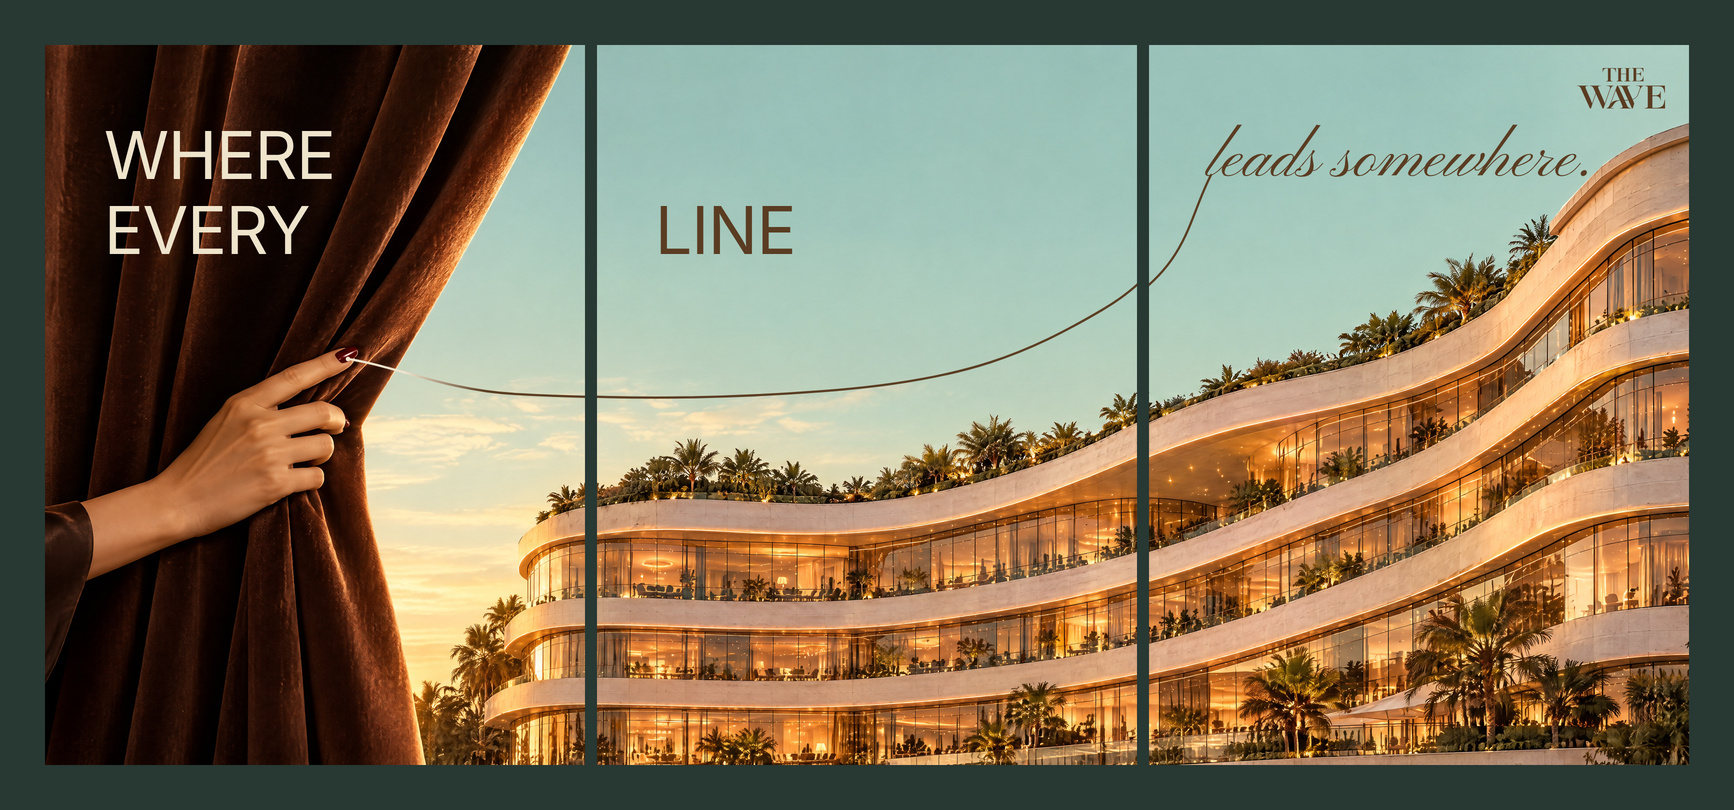
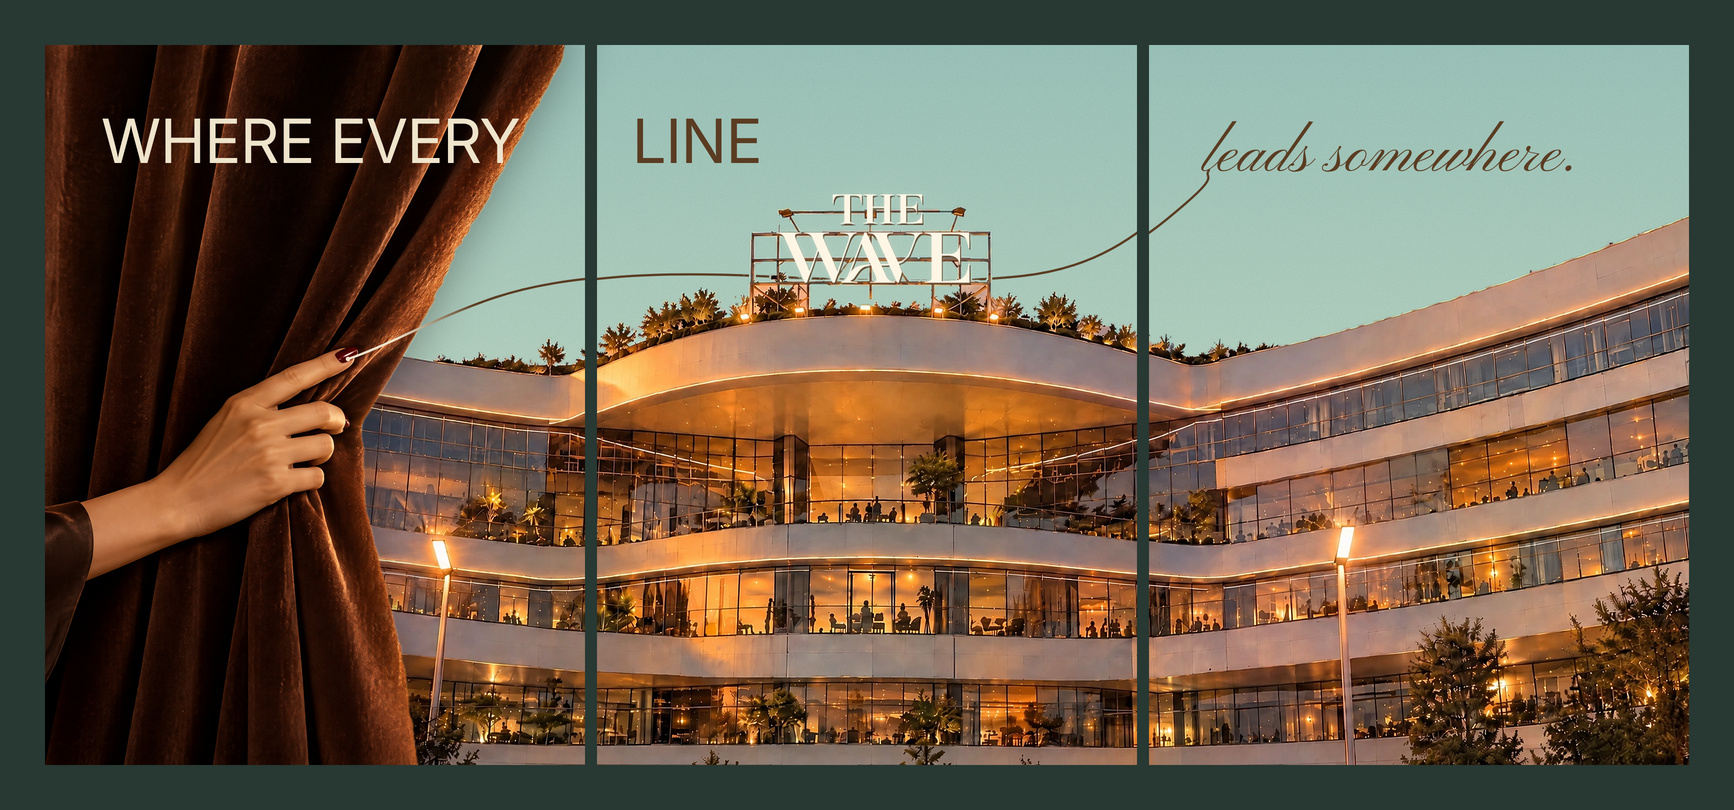
Instagram opening panorama: the real Wave facade and rooftop sign
Claude-Session: https://claude.ai/code/session_0142AMHowNKcEFnnjpkxJwpv

diff --git a/instagram/grid-v4/GRID-GUIDE.md b/instagram/grid-v4/GRID-GUIDE.md
@@ -2,8 +2,8 @@
 
 The feed opens with one picture split across three posts, "Where every line leads somewhere."
 
-- A hand draws back the velvet curtain and reveals The Wave at golden hour.
-- One fine line starts at her fingertip, runs above the roofline across all three posts, and turns into the handwritten *leads somewhere.*
+- A hand draws back the velvet curtain and reveals the real Wave at golden hour: the building and the rooftop THE WAVE sign are from our photograph of the mall, with the sky set to the brand mint.
+- One fine line starts at her fingertip, passes behind the rooftop sign, rises along the right wing, and turns into the handwritten *leads somewhere.*
 
 Above the panorama sit the nine single posts, as a 3×3 grid.
 
@@ -24,9 +24,9 @@ Above the panorama sit the nine single posts, as a 3×3 grid.
 
 ## Text on each post
 
-1. **post-01 · right:** *leads somewhere.* (script) · THE WAVE wordmark at the top right
-2. **post-02 · middle:** LINE
-3. **post-03 · left:** WHERE / EVERY
+1. **post-01 · right:** *leads somewhere.* (script)
+2. **post-02 · middle:** LINE, beside the real rooftop sign
+3. **post-03 · left:** WHERE EVERY
 4. **post-04 · the light is on:** THE LIGHT / IS ON, / *every evening.* · NORTH 90 · NEW CAIRO
 5. **The woman:** no text
 6. **Bags:** EVERYTHING YOU NEED, / *and more.* · THE WAVE
@@ -68,4 +68,4 @@ Hashtags on every post: `#TheWave #TheWaveMall #NewCairo #North90`
 - `posting-order.png`: the profile numbered in posting order
 - `the-wave-grid-hero.jpg`: the campaign image
 
-The scenes were made with Higgsfield. The panorama used two of our building photos as references, and all lettering, the line and the logo were set by hand afterwards, so the type is exact. The follower numbers on the profile are placeholders.
+The panorama is our real golden-hour photograph of The Wave (sky changed to mint, rooftop wordmark from the vector logo), with the velvet curtain and hand made with Higgsfield and laid over it. All lettering and the line were set by hand, so the type is exact. The follower numbers on the profile are placeholders.
